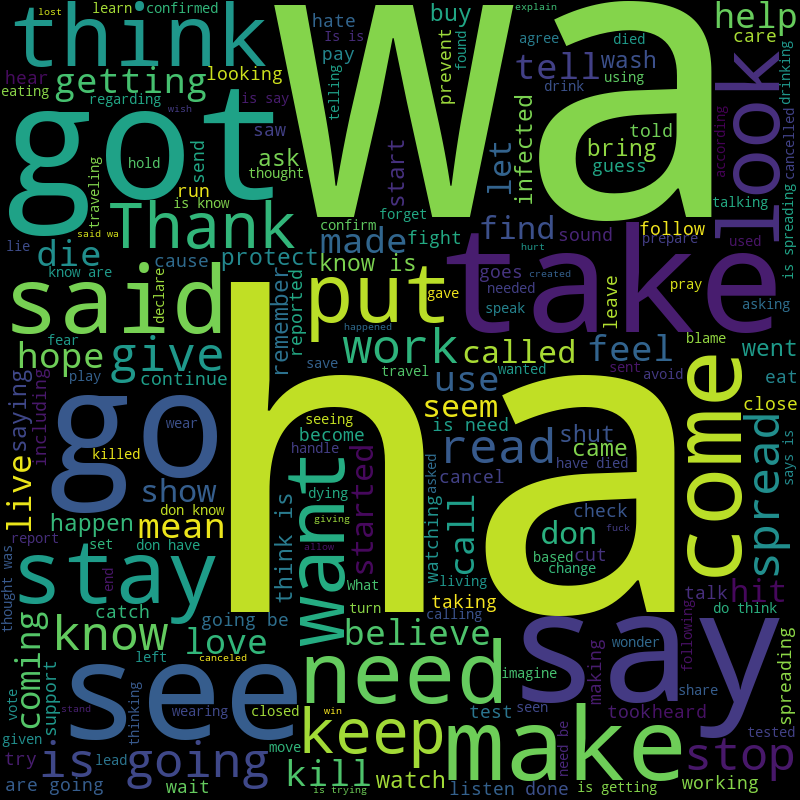
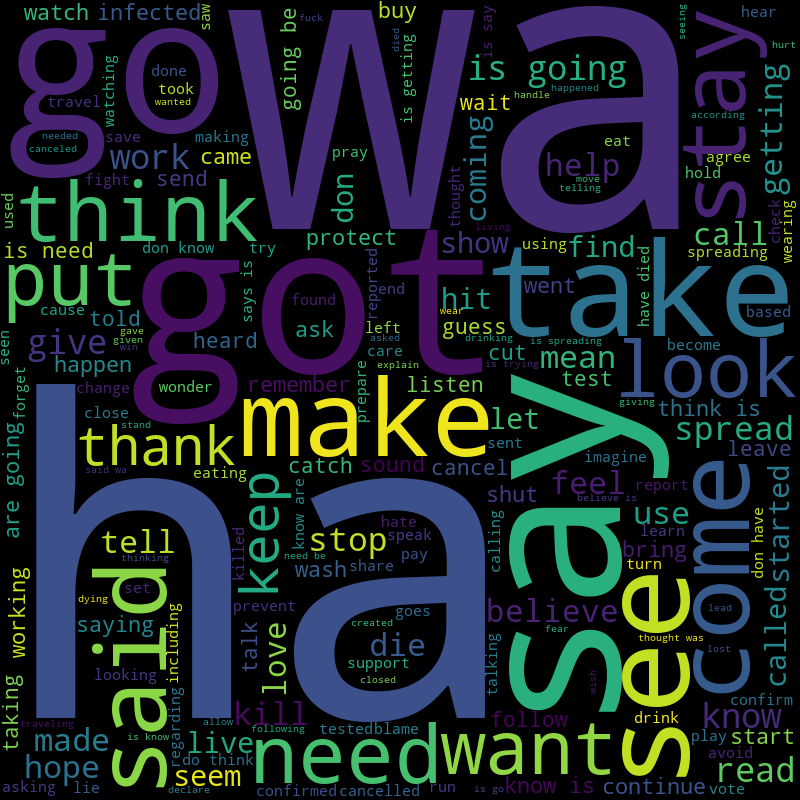
flair analysis

diff --git a/analysis/generate_graphs.py b/analysis/generate_graphs.py
@@ -40,7 +40,10 @@ def get_nested_string(data):
 
 def get_string(data):
     # function returns a string of non nested words
-    word_list = [word for word in data if word is not None]
+    word_list = [word.lower()
+                 for word in data
+                 if word is not None
+                 ]
 
     string = " ".join(word_list)
 
@@ -48,7 +51,7 @@ def get_string(data):
 
 
 def get_pos_string(data, POS):
-    word_list = [word
+    word_list = [word.lower()
                  for pos_list in data
                  for (word, tag) in pos_list
                  if POS in tag
